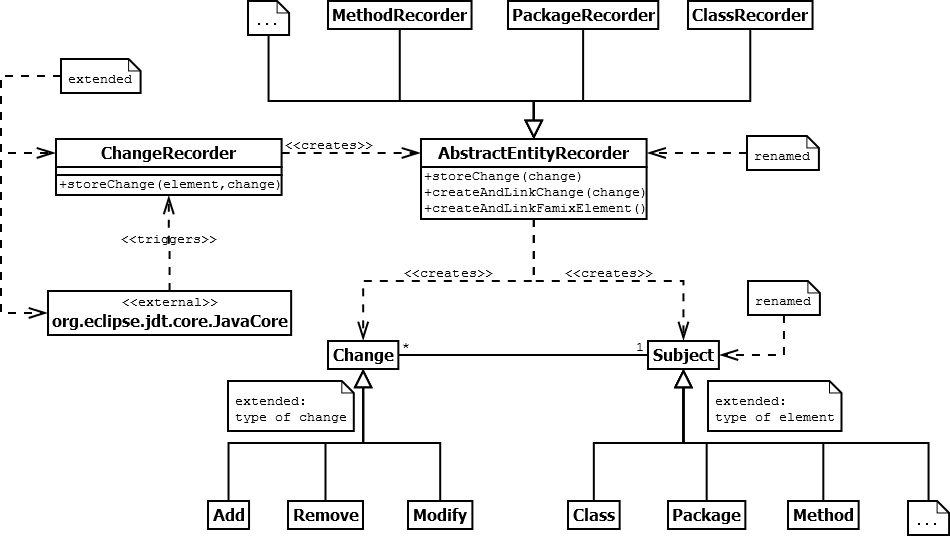
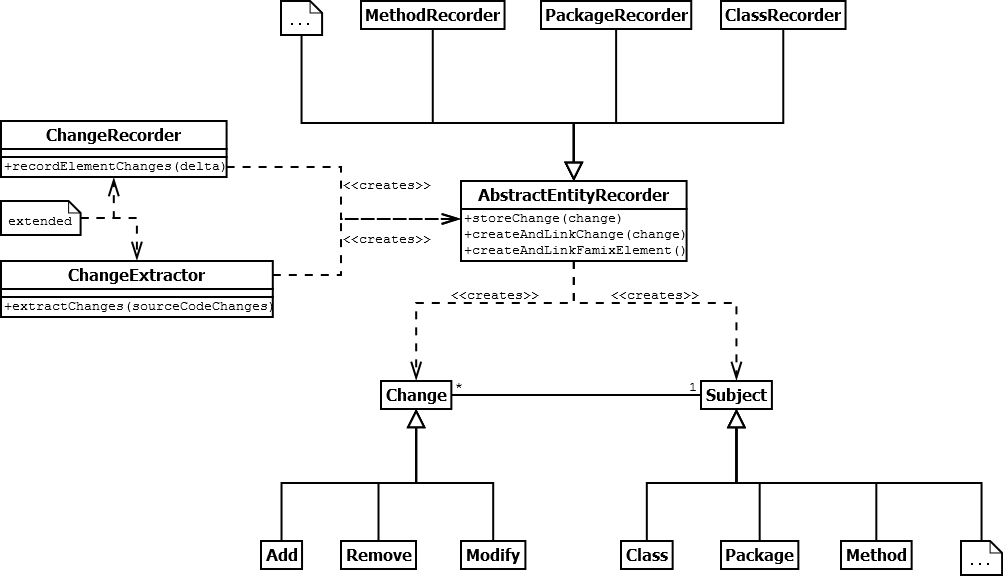
Update Report: Exc. Entities

diff --git a/docs/report.tex b/docs/report.tex
@@ -1,4 +1,4 @@
-\documentclass{article}
+\documentclass[a4paper]{article}
 \usepackage{verbatim}
 \usepackage{graphicx}
 
@@ -10,17 +10,14 @@
 \maketitle
 
 \section{Introduction}
+For this re-engineering project, we have the task of improving the current implementation of the \emph{ChEOPSJ} system to support the storing and managing of changes with a more fine-grained level of detail. This means that the tool should be re-engineered so it can easily include support for local variables, full method signatures, and accesses of fields, local variables or parameters.
 
 \section{First Contact}
-
-text
-
-\subsection{Chat with the mantainers}
-text
+In this section, we describe the initial steps that we took when we first encountered the system. The section is divided (as well as the whole report) in subsections representing a re-engineering pattern from \cite{demeyer02} that has been applied.
 
 \subsection{Read all the code in one hour}
 \label{sec:codeOneHour}
-For this task we saw that the \emph{ChEOPSJ} system is split into ten projects, so we decided to divide them among the three members of our group. Each member read the code of their corresponding projects in around one hour and took notes. Then we explained our findings to the rest of the group and merged the notes together to produce the report shown below. Because of the `time is scarce' principle, we payed more attention to the following items, as it is proposed in \cite{demeyer02}:
+For this task we saw that the \emph{ChEOPSJ} system is split into ten projects, so we decided to divide them among the three members of our group. Each member read the code of their corresponding projects in around one hour and took notes. Then we explained our findings to each other in a meeting and merged the notes together to produce the report shown below. Because of the `time is scarce' principle, we payed more attention to the following items, as it is proposed in \cite{demeyer02}:
 \begin{itemize}
 \item Abstract classes and methods, that reveal design intentions.
 \item Classes high in the hierarchy, which often define domain abstractions; their subclasses introduce variations on a theme.
@@ -42,7 +39,7 @@ The project \emph{be.ac.ua.ansymo.cheopsj.branding} contains an about.html websi
 \subsubsection{be.ac.ua.ansymo.cheopsj.changerecorders}
 % changerecorders
 The project \emph{be.ac.ua.ansymo.cheopsj.changerecorders} is the first with actual source code. It contains the datastructures used for storing the changes of each type of entity (e.g. class, method or variable).
-The AbstractEntityRecorder is at the top of the hierarchy subclassed by all recorders in the package. The \verb+StatementRecorder+ is also abstract but subclassed only by \verb+LocalVariable+ and \verb+MethodInvocation+ recorders, it adds extra common methods to them. All recorders inherit the storeChange method which uses the the abstract methods \verb+createAndLinkFamixElement+ and \verb+createAndLinkChange+ methods, which are implemented differently by each recorder subclass. These two methods, like their names indicate, create and link the famix element object and the change object to the recorder object.
+The AbstractEntityRecorder is at the top of the hierarchy subclassed by all recorders in the package. The StatementRecorder is also abstract but subclassed only by LocalVariable and MethodInvocation recorders, it adds extra common methods to them. All recorders inherit the storeChange method which uses the the abstract methods createAndLinkFamixElement and createAndLinkChange methods, which are implemented differently by each recorder subclass. These two methods, like their names indicate, create and link the famix element object and the change object to the recorder object.
 
 Some classes related to one of the improvements that we must reengineer (support changes of accesses of fields and local variables) are also found in this project but have been excluded from the build path (probably unfinished) so we should look into them later and could use them as a basis.
 
@@ -109,7 +106,7 @@ The project \emph{be.ac.ua.ansymo.cheopsj.update} contains information about the
 
 % evolizer.changedistiller
 \subsubsection{org.evolizer.changedistiller}
-The project \emph{org.evolizer.changedistiller} contains the external library for extracting source code changes from two java files used in the \emph{be.ac.ua.ansymo.cheopsj.distiller} project.
+This project contains the external library for extracting source code changes from two java files used in the \emph{be.ac.ua.ansymo.cheopsj.distiller} project.
 
 \subsubsection{Conclusion}
 In conclusion, the naming conventions of the whole workspace seem appropriate and help understanding the code much faster. The separation of classes into projects and into packages also states the intention of each group of classes more clearly. The comments could be better, but then again because of the facts just mentioned, they are not always needed. Finally, only two projects (changerecorders and logger) contain tests, the logger is an important part of \emph{ChEOPSJ} because it implements on of its main functionalities i.e. logging new changes for a project. In the other hand, the distiller project takes care of the other main functionality of \emph{ChEOPSJ}, which is distilling changes from an existing project, but it does not contain tests. It is possible that we will need to implement tests for this project in the future. The model project seems also very relevant (specially the model manager) and does not have any tests either.
@@ -134,12 +131,10 @@ The first time we tried build the system in eclipse, we encountered some errors 
 With the system running, we added a mock project to the workspace along with some packages and classes to see the functionality of the system. We noticed from the console that some exceptions were thrown while adding new elements in the java editor saying that the elements could not be found. It would appear that the system tries to locate this elements in real-time while the user is not finished defining them in the editor.
 
 \section{Initial Understanding}
+At this point, after the First Contact with the system, we can start to explore it with more detail. This section presents our initial understanding of the system regarding it's design and exceptional entities.
 
 \subsection{Speculate about Design}
-Because our goal is to restructure \emph{ChEOPSJ} to support recording changes of more fine-grained level of detail, we focused on the design of the recording of changes. This process is relevant for two of the main functionalities of \emph{ChEOPSJ}, logging of new changes as well as extracting changes from an existing project.
-
-\subsubsection{First class diagram}
-With our understanding of the system, we recognized three main actors involved in this process: a change, the element that suffers the change and a change recorder that creates these two objects in some way. This can be seen in the first class diagram that we designed, shown in Figure \ref{fig:spec0}.
+Because our goal is to restructure \emph{ChEOPSJ} to support recording changes of more fine-grained level of detail, we focused on the design of the recording of changes process. This process is relevant for two of the main functionalities of \emph{ChEOPSJ}, logging of new changes as well as extracting changes from an existing project.
 
 \begin{figure}[h]
 \centering
@@ -148,8 +143,11 @@ With our understanding of the system, we recognized three main actors involved i
 \label{fig:skim}
 \end{figure}
 
-\subsubsection{Second class diagram}
-After examinating the code for mismatches with the initial hypothesis, we adapted the class diagram in several ways, as can be seen in Figure \ref{fig:spec1}:
+\subsubsection{Initial design speculation}
+With our understanding of the system, we recognized three main actors involved in this process: a change, the element that suffers the change and a change recorder that creates these two objects in some way. This can be seen in the first class diagram that we designed, shown in Figure \ref{fig:spec0}.
+
+\subsubsection{Refined design speculation}
+After examining the code for mismatches with the initial hypothesis, we adapted the class diagram in several ways, as can be seen in Figure \ref{fig:spec1}:
 
 \begin{itemize}
 \item First, we renamed the ChangeRecorder to AbstractEntityRecorder, which is at the top of the hierarchy of all change recorder classes. We also added some of the subclasses of this hierarchy like PackageRecorder, MethodRecorder and ClassRecorder. The way this AbstractEntityRecorder is invoked and by which class is still pending.
@@ -164,17 +162,17 @@ After examinating the code for mismatches with the initial hypothesis, we adapte
 \begin{figure}[h]
 \centering
 \includegraphics[width=0.8\textwidth]{Images/spec1}
-\caption{Second design speculation about recording of changes}
+\caption{Second class diagram about recording of changes}
 \label{fig:spec1}
 \end{figure}
 
-\subsubsection{Third class diagram}
-After one last examination of the code we could answer the question remaining of when and how the AbstractEntityRecorders where instantiated. We found out that this is done by the ChangeRecorder class in the \emph{be.ac.ua.ansymo.cheopsj.logger} package, which in turn is triggered by an event fired by the eclipse framework class org.eclipse.jdt.core.JavaCore. This can be seen in Figure \ref{fig:spec2b}.
+\subsubsection{Final refined design}
+After one last examination of the code we could answer the question remaining of how the AbstractEntityRecorder where instantiated. We found out that this is done by two classes: the ChangeRecorder class in the Logger package and the ChangeExtractor class in the Distiller package. This can be seen in Figure \ref{fig:spec2b}. This makes sense because these two packages take care of the two functionalities that store changes.
 
 \begin{figure}[h]
 \centering
-\includegraphics[width=0.8\textwidth]{Images/spec2b}
-\caption{Third design speculation about recording of changes}
+\includegraphics[width=0.9\textwidth]{Images/spec2}
+\caption{Third and final class diagram about recording of changes}
 \label{fig:spec2b}
 \end{figure}
 
@@ -209,9 +207,11 @@ A red color on a metric means a potential negative quantity, blue not negative o
 
 From the pyramid overview the following information can be intepreted:
 \begin{itemize}
-  \item Class hierarchies are very tall, as it can be seen in the average height of inheritance trees (HIT) metric which is colored red with a value of 2.25. The class hierarchies are also of average width, which is good, because the average number of direct descendants (NDD) is 0.33. This observation can be seen with more detail with the Class Inheritance visualization in section \ref{sec:classInheritance}.
-  \item Classes have an average number of methods (5.51) and are organized in rather fine-grained packages, in other words there are few classes per package. We noticed the latter while Reading The Code In One Hour in section \ref{sec:codeOneHour} which made the initial understanding of the system easier because of the good division of classes in the packages.
-  \item Methods are rather long (12 lines of code per method in average), but on the other hand their logic is simple because there are not many conditional branches in the methods. This is calculated by dividing the total lines of code (LOC) by the cyclomatic complexity (CYCLO). Methods also have high coupling intensity which means that they call many methods, the number of methods (NOM) divided by the operation calls (CALL) is high.
+\item Class hierarchies are very tall, as it can be seen in the average height of inheritance trees (HIT) metric which is colored red with a value of 2.25. The class hierarchies are also of average width, which is good, because the average number of direct descendants (NDD) is 0.33. This observation can be seen with more detail with the Class Inheritance visualization in section \ref{sec:classInheritance}.
+
+\item Classes have an average number of methods (5.51) and are organized in rather fine-grained packages, in other words there are few classes per package. We noticed the latter while Reading The Code In One Hour in section \ref{sec:codeOneHour} which made the initial understanding of the system easier because of the good division of classes in the packages.
+
+\item Methods are rather long (12 lines of code per method in average), but on the other hand their logic is simple because there are not many conditional branches in the methods. This is calculated by dividing the total lines of code (LOC) by the cyclomatic complexity (CYCLO). Methods also have high coupling intensity which means that they call many methods, the number of methods (NOM) divided by the operation calls (CALL) is high.
 \end{itemize}
 
 \subsubsection{Class Size Overview}
@@ -228,13 +228,28 @@ The FamixPackage class is taller than the other classes in it's package, which m
 
 The Change class also stands out from the other classes in that it is tall and wide compared to the rest. After examining the source code we saw that all the methods are actually getters and setters and that this class does not contain much actual behavior. It is used more for storing properties of a change, like its time stamp, its intent and its dependencies -- therefore its larger width.
 
-The ModelManager class is perhaps the most exceptional class, in its size showed in the Package Map as well as in its source code. The model manager keeps track of all the famix entities in HashMap datastructures as well of the changes that these suffer, so it contains many attributes as well as getter and setter methods for those attributes. 
+The ModelManager class is perhaps the most exceptional class, in its size showed in the Package Map as well as in its source code. The model manager keeps track of all the famix entities in HashMap data structures as well of the changes that these suffer, so it contains many attributes as well as getter and setter methods for those attributes. 
 
 This class is also labeled as a God Class by the inFusion tool. It is reported by the tool that it uses many attributes from external classes, is excessively large and complex and is very non-cohesive. After examining the code and with the help of the tool, we saw that the three issues are mainly caused by a single method called printGraphForGroove. At first sight, it would appear that this method is only related to the graphical interface but further examination could be required to see if actual splitting of the god class is required.
 
 \subsubsection{Class Inheritance}
 \label{sec:classInheritance}
-TODO
+Next, we studied the various subtrees in the inheritance hierarchies. For visualizing them, we used the Inheritance Map from the inFusion tool which can be seen in Figure \ref{fig:inheritanceMap}. We examine three inheritance subtrees that are related to the improvement that we want to re-engineer: 
+
+\begin{itemize}
+\item The first is the one rooted at \emph{Subject}, which contains all the possible entities of a Java workspace that can suffer a change -- like Package, Class or Method. This is the deepest hierarchy with 4 levels of inheritance. The first level of inheritance seems a little suspicious because it only contains one class with no siblings which could mean that the super and subclass are not very different. This could be re-factored by merging the two classes together. This should be first verified via code browsing.
+
+\item Next, there is the \emph{Change} hierarchy, which is quite small and straightforward. This hierarchy does not seem suspicious so we will not re-factor it following the \textbf{If It Ain’t Broke, Don’t Fix It} pattern.
+
+\item The hierarchy of the change recorders with \emph{AbstractEntityRecorder} as the root contains a change recorder class almost for each entity of the Subject hierarchy. If we recall from previous sections, the change recorders are responsible for creating the changes and entities as well as linking them together whenever an event is sent from the eclipse framework itself saying that the user modified the compilation unit. This hierarchy seems a bit broad at the first depth level and could perhaps also use refactoring to make it more efficient and easier to extend. The root class is very small, it is actually smaller than all it's subclasses which could be solved by pushing some common methods and attributes upwards.
+\end{itemize}
+
+\begin{figure}[h]
+\centering
+\includegraphics[width=0.8\textwidth]{Images/inheritanceMap}
+\caption{Inheritance Map created with inFusion}
+\label{fig:inheritanceMap}
+\end{figure}
 
 \subsubsection{God classes}
 % God class ModelManager
@@ -256,7 +271,7 @@ The usage of inFusion has helped us a lot for better understanding of the comple
 
 \section{Detailed Model Capture}
 \subsection{Refactor to Understand}
-This chapter presents some of the refactoring we have done to the plugin, which also helped us to better understand the system. Three types of refactorings we have used and they will be explained in the following paragraphs.
+This chapter presents some of the refactoring we have done to the plugin, which also helped us to better understand the system. Three types of refactoring techniques we have used and they will be explained in the following paragraphs.
 
 \subsubsection{Remove Duplicate Code}
 For locating the duplicated code we have used the tool CCFinderX which was used on the duplicated code laboratory session. One of the biggest and most important duplicate code we have refactored is the method \emph{setStructuralDependencies} that was located in two classes: ClassRecorder and MethodRecorder in the package \emph{be.ac.ua.ansymo.cheopsj.changerecorders}. This method was used by both of the mentioned classes in order to manage the structural dependencies between the changes, depending on if the change was of type addition or removal of classes or methods.
